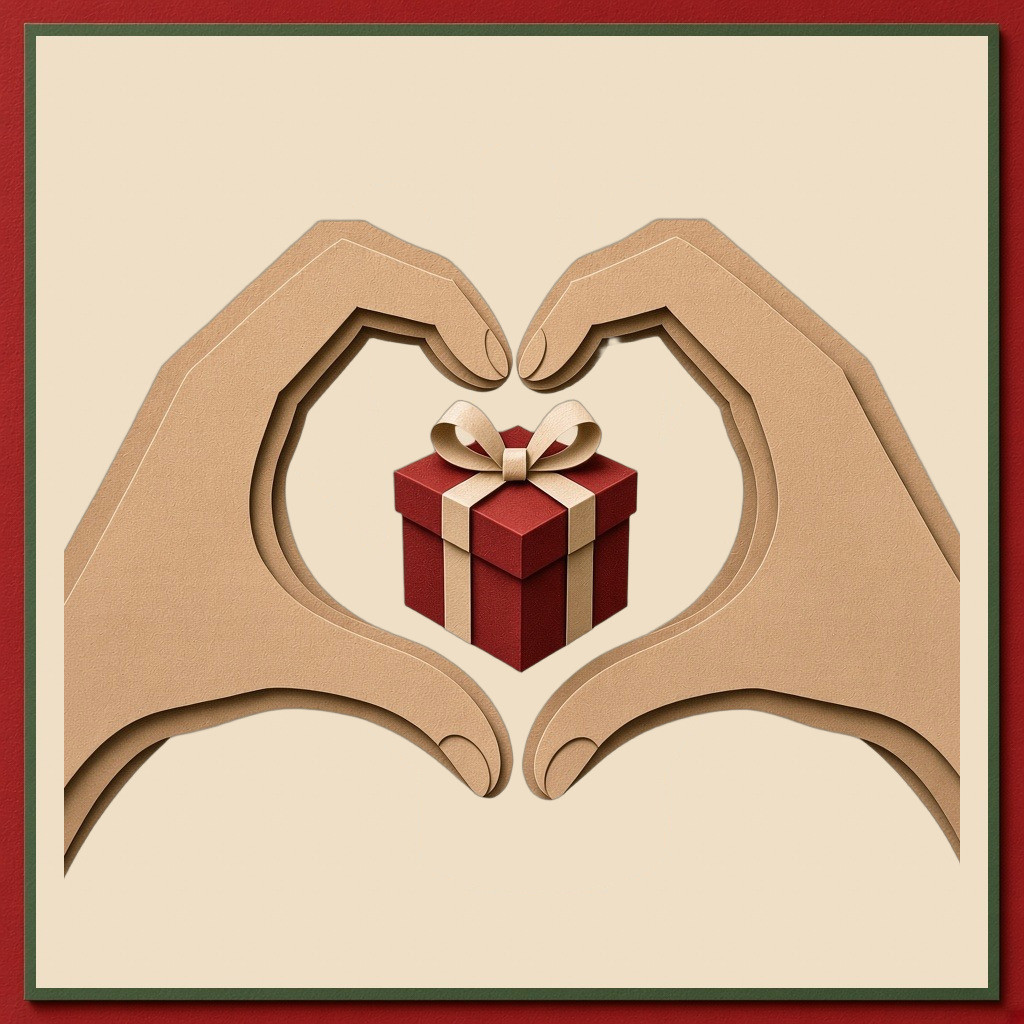
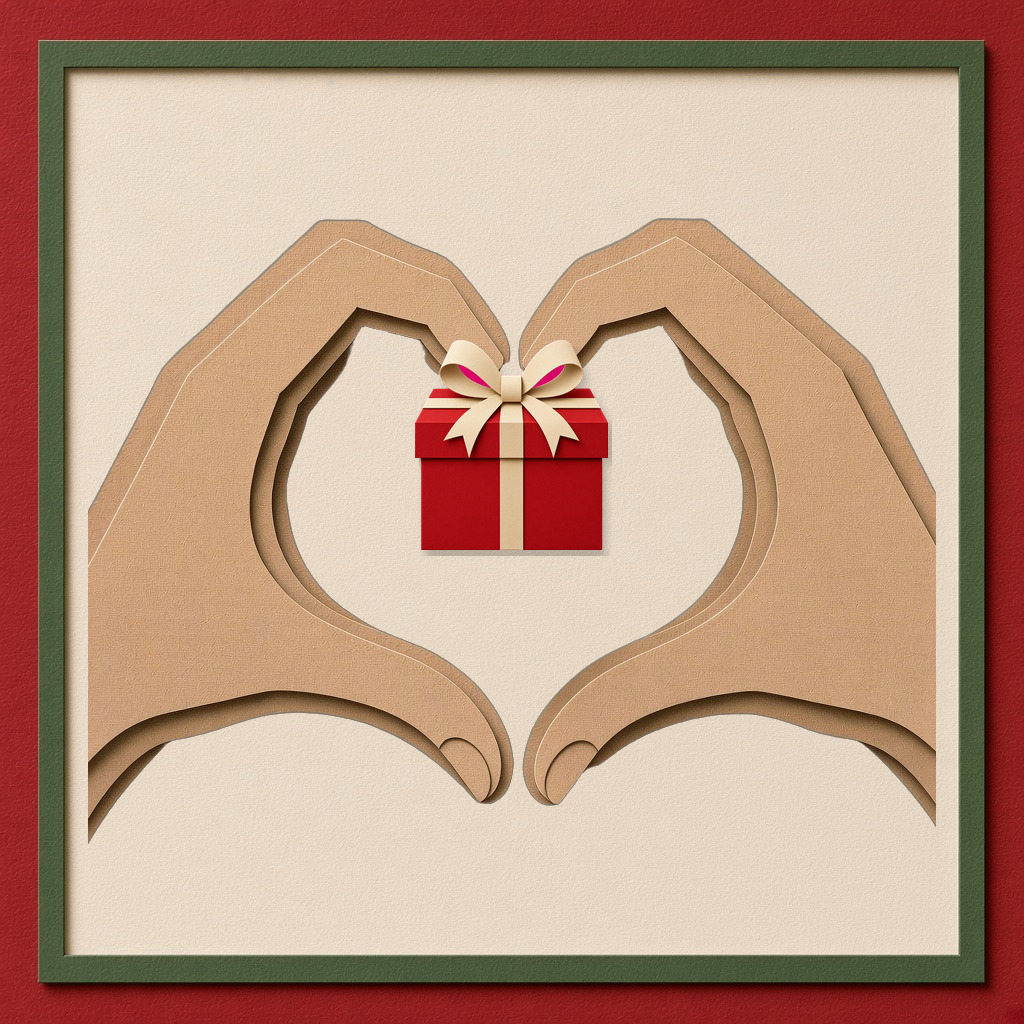
Restore distinctive per-style guide chrome; pack gift/bell sprites
Replace bland stamped frames with style-character borders (pixel ornate
corners, vintage crimson filigree, paper red/green cardstock, neon
cyan–magenta glow) while keeping chrome identical within each style.
Composite real public/{style}/gift.png and bell.png into gift/bell guides.
Paper hands stay kraft/tan. Cache-bust: pixel ?v=61, vintage 13, paper 16, neon 15.

diff --git a/hosts/neon/src/pixelAssets.js b/hosts/neon/src/pixelAssets.js
@@ -68,13 +68,13 @@ export function loadImage(src, { scrubMagenta = false } = {}) {
 const BASE = import.meta.env.BASE_URL
 
 export const PIXEL = {
-  guideSnow: `${BASE}pixel/guide-snow.jpg?v=60`,
-  guideGift: `${BASE}pixel/guide-gift.jpg?v=60`,
-  guideBell: `${BASE}pixel/guide-bell.jpg?v=60`,
-  guideAntlers: `${BASE}pixel/guide-antlers.jpg?v=60`,
-  guideHat: `${BASE}pixel/guide-hat.jpg?v=60`,
-  guideNext: `${BASE}pixel/guide-next.jpg?v=60`,
-  guideTree: `${BASE}pixel/guide-tree.jpg?v=60`,
+  guideSnow: `${BASE}pixel/guide-snow.jpg?v=61`,
+  guideGift: `${BASE}pixel/guide-gift.jpg?v=61`,
+  guideBell: `${BASE}pixel/guide-bell.jpg?v=61`,
+  guideAntlers: `${BASE}pixel/guide-antlers.jpg?v=61`,
+  guideHat: `${BASE}pixel/guide-hat.jpg?v=61`,
+  guideNext: `${BASE}pixel/guide-next.jpg?v=61`,
+  guideTree: `${BASE}pixel/guide-tree.jpg?v=61`,
   santaHat: `${BASE}pixel/santa-hat.png?v=3`,
   antlers: `${BASE}pixel/antlers.png?v=2`,
   gift: `${BASE}pixel/gift.png?v=52`,

diff --git a/hosts/paper/src/pixelAssets.js b/hosts/paper/src/pixelAssets.js
@@ -68,13 +68,13 @@ export function loadImage(src, { scrubMagenta = false } = {}) {
 const BASE = import.meta.env.BASE_URL
 
 export const PIXEL = {
-  guideSnow: `${BASE}pixel/guide-snow.jpg?v=60`,
-  guideGift: `${BASE}pixel/guide-gift.jpg?v=60`,
-  guideBell: `${BASE}pixel/guide-bell.jpg?v=60`,
-  guideAntlers: `${BASE}pixel/guide-antlers.jpg?v=60`,
-  guideHat: `${BASE}pixel/guide-hat.jpg?v=60`,
-  guideNext: `${BASE}pixel/guide-next.jpg?v=60`,
-  guideTree: `${BASE}pixel/guide-tree.jpg?v=60`,
+  guideSnow: `${BASE}pixel/guide-snow.jpg?v=61`,
+  guideGift: `${BASE}pixel/guide-gift.jpg?v=61`,
+  guideBell: `${BASE}pixel/guide-bell.jpg?v=61`,
+  guideAntlers: `${BASE}pixel/guide-antlers.jpg?v=61`,
+  guideHat: `${BASE}pixel/guide-hat.jpg?v=61`,
+  guideNext: `${BASE}pixel/guide-next.jpg?v=61`,
+  guideTree: `${BASE}pixel/guide-tree.jpg?v=61`,
   santaHat: `${BASE}pixel/santa-hat.png?v=3`,
   antlers: `${BASE}pixel/antlers.png?v=2`,
   gift: `${BASE}pixel/gift.png?v=52`,

diff --git a/hosts/pixel/src/pixelAssets.js b/hosts/pixel/src/pixelAssets.js
@@ -68,13 +68,13 @@ export function loadImage(src, { scrubMagenta = false } = {}) {
 const BASE = import.meta.env.BASE_URL
 
 export const PIXEL = {
-  guideSnow: `${BASE}pixel/guide-snow.jpg?v=60`,
-  guideGift: `${BASE}pixel/guide-gift.jpg?v=60`,
-  guideBell: `${BASE}pixel/guide-bell.jpg?v=60`,
-  guideAntlers: `${BASE}pixel/guide-antlers.jpg?v=60`,
-  guideHat: `${BASE}pixel/guide-hat.jpg?v=60`,
-  guideNext: `${BASE}pixel/guide-next.jpg?v=60`,
-  guideTree: `${BASE}pixel/guide-tree.jpg?v=60`,
+  guideSnow: `${BASE}pixel/guide-snow.jpg?v=61`,
+  guideGift: `${BASE}pixel/guide-gift.jpg?v=61`,
+  guideBell: `${BASE}pixel/guide-bell.jpg?v=61`,
+  guideAntlers: `${BASE}pixel/guide-antlers.jpg?v=61`,
+  guideHat: `${BASE}pixel/guide-hat.jpg?v=61`,
+  guideNext: `${BASE}pixel/guide-next.jpg?v=61`,
+  guideTree: `${BASE}pixel/guide-tree.jpg?v=61`,
   santaHat: `${BASE}pixel/santa-hat.png?v=3`,
   antlers: `${BASE}pixel/antlers.png?v=2`,
   gift: `${BASE}pixel/gift.png?v=52`,

diff --git a/hosts/vintage/src/pixelAssets.js b/hosts/vintage/src/pixelAssets.js
@@ -68,13 +68,13 @@ export function loadImage(src, { scrubMagenta = false } = {}) {
 const BASE = import.meta.env.BASE_URL
 
 export const PIXEL = {
-  guideSnow: `${BASE}pixel/guide-snow.jpg?v=60`,
-  guideGift: `${BASE}pixel/guide-gift.jpg?v=60`,
-  guideBell: `${BASE}pixel/guide-bell.jpg?v=60`,
-  guideAntlers: `${BASE}pixel/guide-antlers.jpg?v=60`,
-  guideHat: `${BASE}pixel/guide-hat.jpg?v=60`,
-  guideNext: `${BASE}pixel/guide-next.jpg?v=60`,
-  guideTree: `${BASE}pixel/guide-tree.jpg?v=60`,
+  guideSnow: `${BASE}pixel/guide-snow.jpg?v=61`,
+  guideGift: `${BASE}pixel/guide-gift.jpg?v=61`,
+  guideBell: `${BASE}pixel/guide-bell.jpg?v=61`,
+  guideAntlers: `${BASE}pixel/guide-antlers.jpg?v=61`,
+  guideHat: `${BASE}pixel/guide-hat.jpg?v=61`,
+  guideNext: `${BASE}pixel/guide-next.jpg?v=61`,
+  guideTree: `${BASE}pixel/guide-tree.jpg?v=61`,
   santaHat: `${BASE}pixel/santa-hat.png?v=3`,
   antlers: `${BASE}pixel/antlers.png?v=2`,
   gift: `${BASE}pixel/gift.png?v=52`,

diff --git a/src/pixelAssets.js b/src/pixelAssets.js
@@ -68,13 +68,13 @@ export function loadImage(src, { scrubMagenta = false } = {}) {
 const BASE = import.meta.env.BASE_URL
 
 export const PIXEL = {
-  guideSnow: `${BASE}pixel/guide-snow.jpg?v=60`,
-  guideGift: `${BASE}pixel/guide-gift.jpg?v=60`,
-  guideBell: `${BASE}pixel/guide-bell.jpg?v=60`,
-  guideAntlers: `${BASE}pixel/guide-antlers.jpg?v=60`,
-  guideHat: `${BASE}pixel/guide-hat.jpg?v=60`,
-  guideNext: `${BASE}pixel/guide-next.jpg?v=60`,
-  guideTree: `${BASE}pixel/guide-tree.jpg?v=60`,
+  guideSnow: `${BASE}pixel/guide-snow.jpg?v=61`,
+  guideGift: `${BASE}pixel/guide-gift.jpg?v=61`,
+  guideBell: `${BASE}pixel/guide-bell.jpg?v=61`,
+  guideAntlers: `${BASE}pixel/guide-antlers.jpg?v=61`,
+  guideHat: `${BASE}pixel/guide-hat.jpg?v=61`,
+  guideNext: `${BASE}pixel/guide-next.jpg?v=61`,
+  guideTree: `${BASE}pixel/guide-tree.jpg?v=61`,
   santaHat: `${BASE}pixel/santa-hat.png?v=3`,
   antlers: `${BASE}pixel/antlers.png?v=2`,
   gift: `${BASE}pixel/gift.png?v=52`,

diff --git a/hosts/neon/src/vintageAssets.js b/hosts/neon/src/vintageAssets.js
@@ -7,13 +7,13 @@ const BASE = import.meta.env.BASE_URL
 const V = `${BASE}vintage`
 
 export const VINTAGE = {
-  guideSnow: `${V}/guide-snow.jpg?v=12`,
-  guideGift: `${V}/guide-gift.jpg?v=12`,
-  guideBell: `${V}/guide-bell.jpg?v=12`,
-  guideAntlers: `${V}/guide-antlers.jpg?v=12`,
-  guideHat: `${V}/guide-hat.jpg?v=12`,
-  guideNext: `${V}/guide-next.jpg?v=12`,
-  guideTree: `${V}/guide-tree.jpg?v=12`,
+  guideSnow: `${V}/guide-snow.jpg?v=13`,
+  guideGift: `${V}/guide-gift.jpg?v=13`,
+  guideBell: `${V}/guide-bell.jpg?v=13`,
+  guideAntlers: `${V}/guide-antlers.jpg?v=13`,
+  guideHat: `${V}/guide-hat.jpg?v=13`,
+  guideNext: `${V}/guide-next.jpg?v=13`,
+  guideTree: `${V}/guide-tree.jpg?v=13`,
   santaHat: `${V}/santa-hat.png?v=3`,
   antlers: `${V}/antlers.png?v=3`,
   gift: `${V}/gift.png?v=3`,

diff --git a/hosts/paper/src/vintageAssets.js b/hosts/paper/src/vintageAssets.js
@@ -7,13 +7,13 @@ const BASE = import.meta.env.BASE_URL
 const V = `${BASE}vintage`
 
 export const VINTAGE = {
-  guideSnow: `${V}/guide-snow.jpg?v=12`,
-  guideGift: `${V}/guide-gift.jpg?v=12`,
-  guideBell: `${V}/guide-bell.jpg?v=12`,
-  guideAntlers: `${V}/guide-antlers.jpg?v=12`,
-  guideHat: `${V}/guide-hat.jpg?v=12`,
-  guideNext: `${V}/guide-next.jpg?v=12`,
-  guideTree: `${V}/guide-tree.jpg?v=12`,
+  guideSnow: `${V}/guide-snow.jpg?v=13`,
+  guideGift: `${V}/guide-gift.jpg?v=13`,
+  guideBell: `${V}/guide-bell.jpg?v=13`,
+  guideAntlers: `${V}/guide-antlers.jpg?v=13`,
+  guideHat: `${V}/guide-hat.jpg?v=13`,
+  guideNext: `${V}/guide-next.jpg?v=13`,
+  guideTree: `${V}/guide-tree.jpg?v=13`,
   santaHat: `${V}/santa-hat.png?v=1`,
   antlers: `${V}/antlers.png?v=1`,
   gift: `${V}/gift.png?v=1`,

diff --git a/hosts/vintage/src/vintageAssets.js b/hosts/vintage/src/vintageAssets.js
@@ -5,7 +5,7 @@ import { loadImage } from './pixelAssets.js'
 
 const BASE = import.meta.env.BASE_URL
 const V = `${BASE}vintage`
-const VER = '12'
+const VER = '13'
 
 export const VINTAGE = {
   guideSnow: `${V}/guide-snow.jpg?v=${VER}`,

diff --git a/src/vintageAssets.js b/src/vintageAssets.js
@@ -5,7 +5,7 @@ import { loadImage } from './pixelAssets.js'
 
 const BASE = import.meta.env.BASE_URL
 const V = `${BASE}vintage`
-const VER = '12'
+const VER = '13'
 
 export const VINTAGE = {
   guideSnow: `${V}/guide-snow.jpg?v=${VER}`,

diff --git a/hosts/paper/src/paperAssets.js b/hosts/paper/src/paperAssets.js
@@ -5,7 +5,7 @@ import { loadImage } from './pixelAssets.js'
 
 const BASE = import.meta.env.BASE_URL
 const P = `${BASE}paper`
-const VER = '15'
+const VER = '16'
 
 export const PAPER = {
   guideSnow: `${P}/guide-snow.jpg?v=${VER}`,

diff --git a/src/paperAssets.js b/src/paperAssets.js
@@ -5,7 +5,7 @@ import { loadImage } from './pixelAssets.js'
 
 const BASE = import.meta.env.BASE_URL
 const P = `${BASE}paper`
-const VER = '15'
+const VER = '16'
 
 export const PAPER = {
   guideSnow: `${P}/guide-snow.jpg?v=${VER}`,

diff --git a/hosts/neon/src/neonAssets.js b/hosts/neon/src/neonAssets.js
@@ -5,7 +5,7 @@ import { loadImage } from './pixelAssets.js'
 
 const BASE = import.meta.env.BASE_URL
 const N = `${BASE}neon`
-const VER = '14'
+const VER = '15'
 const FLAKE_VER = '4'
 
 export const NEON = {
